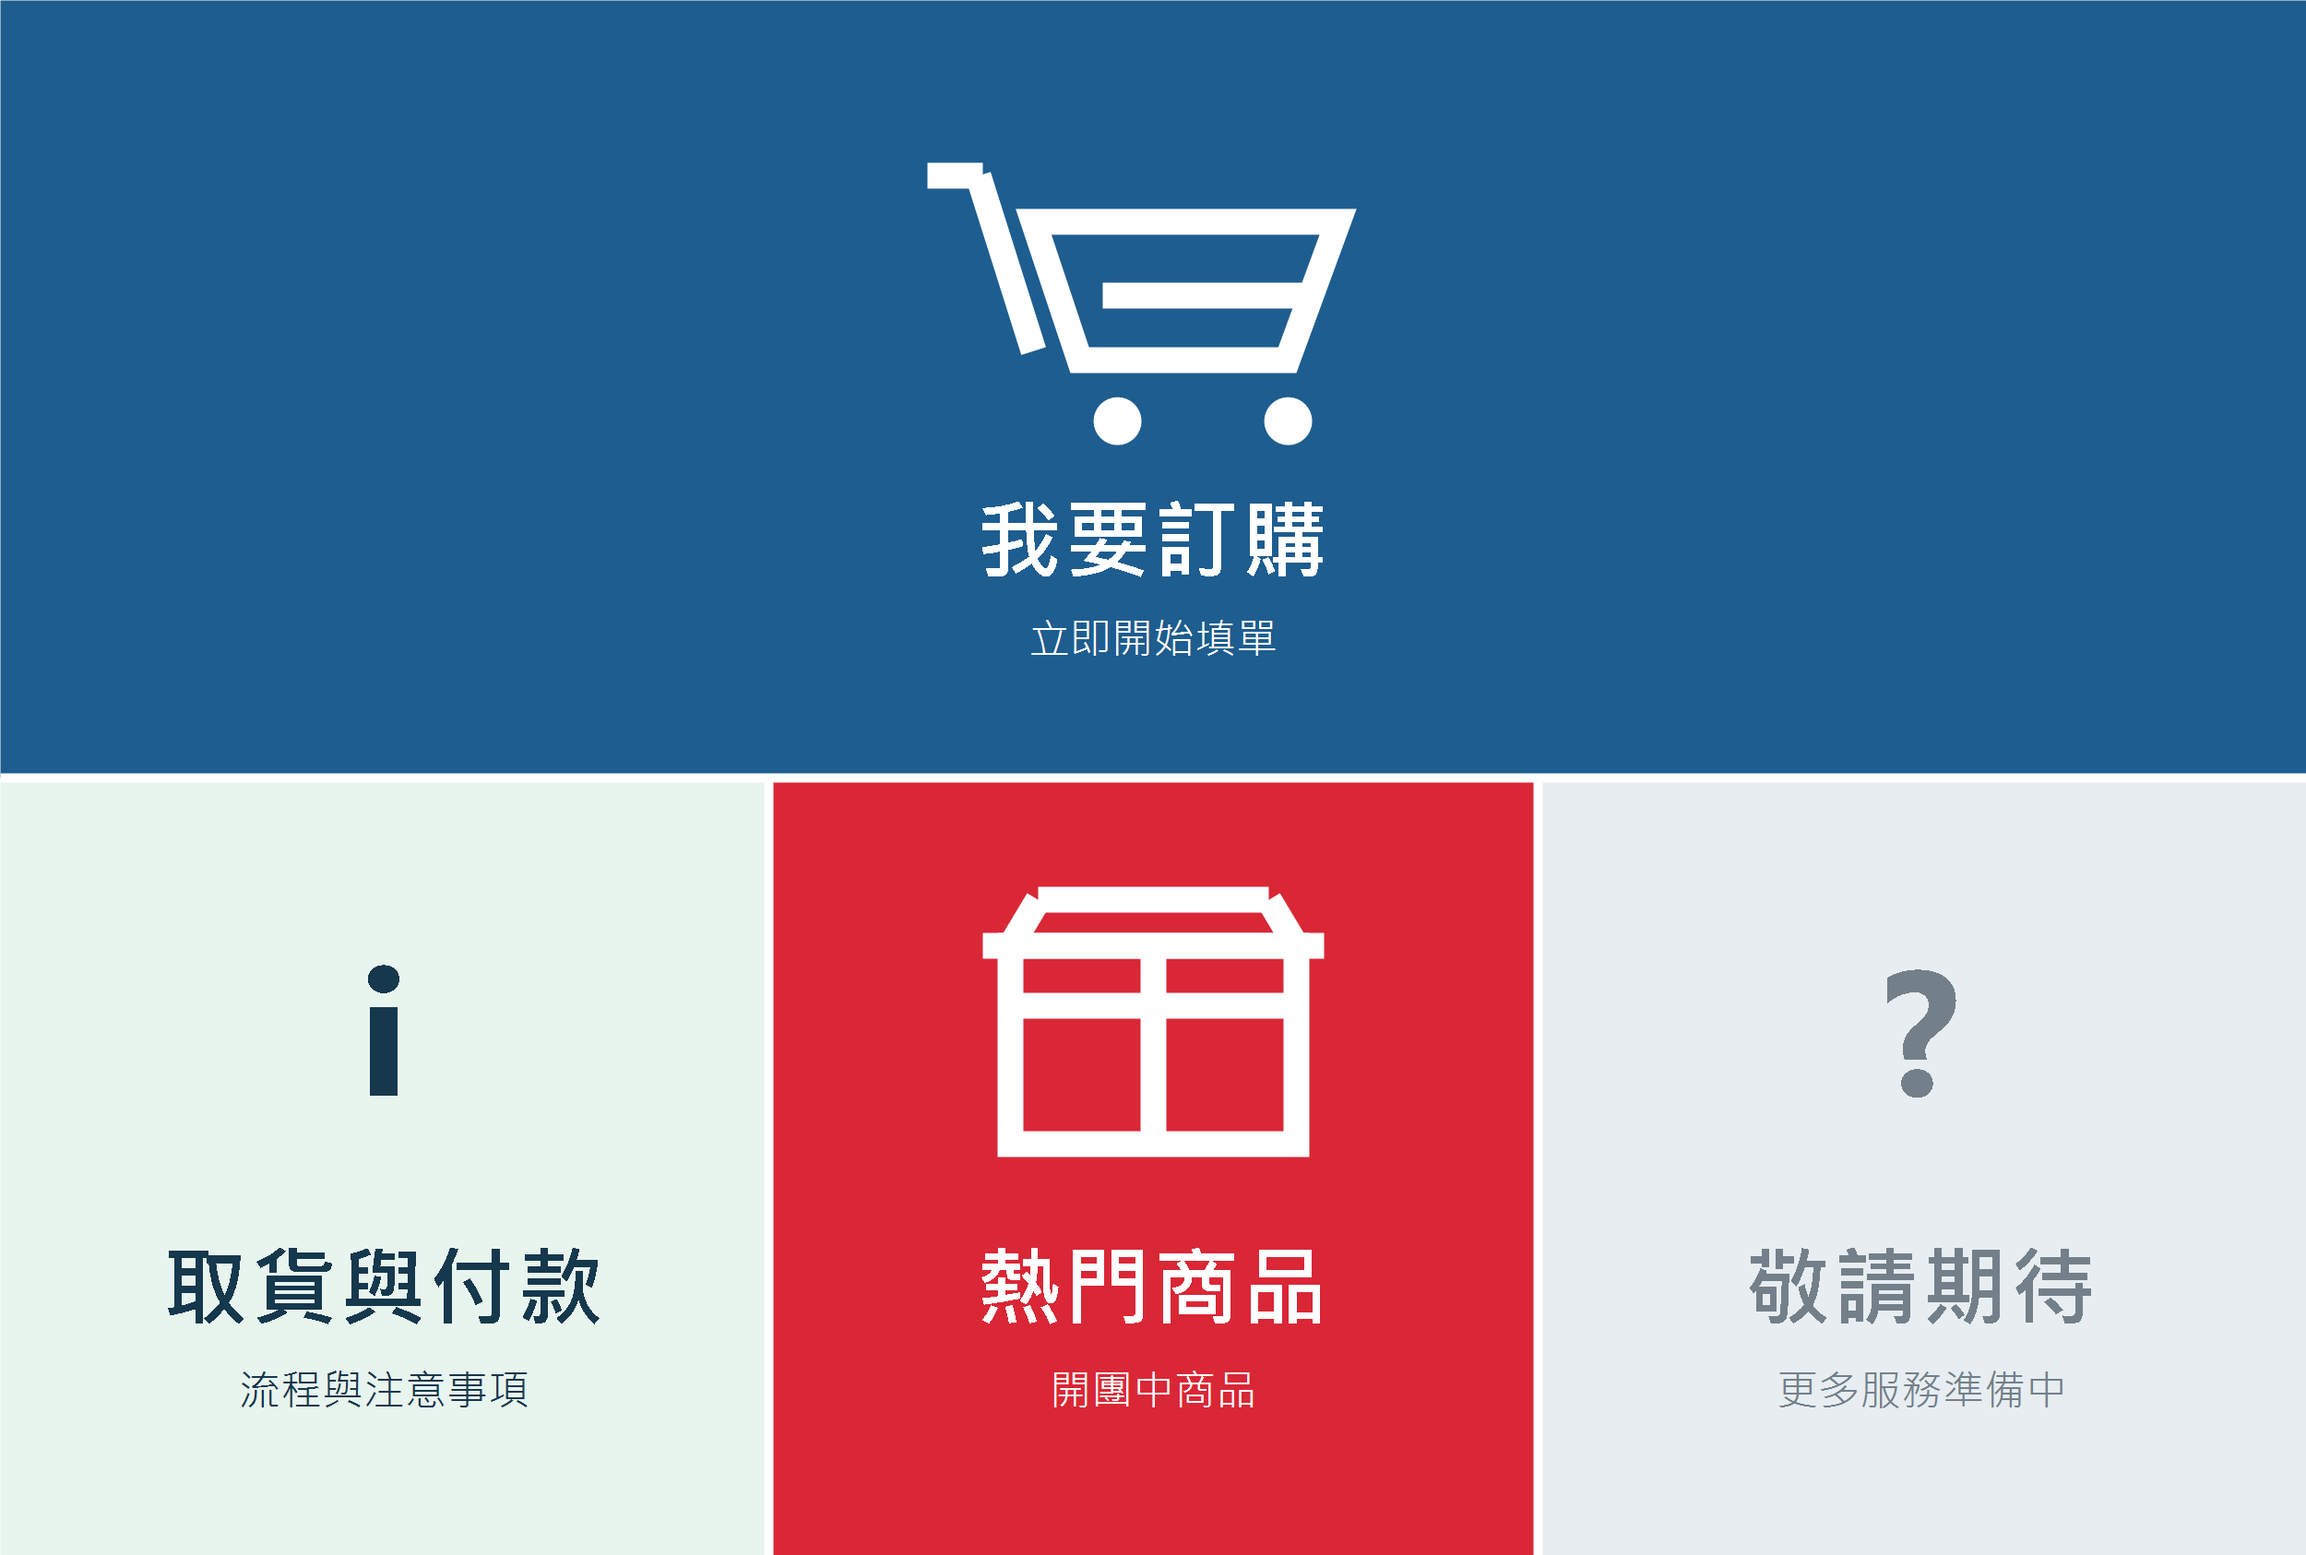
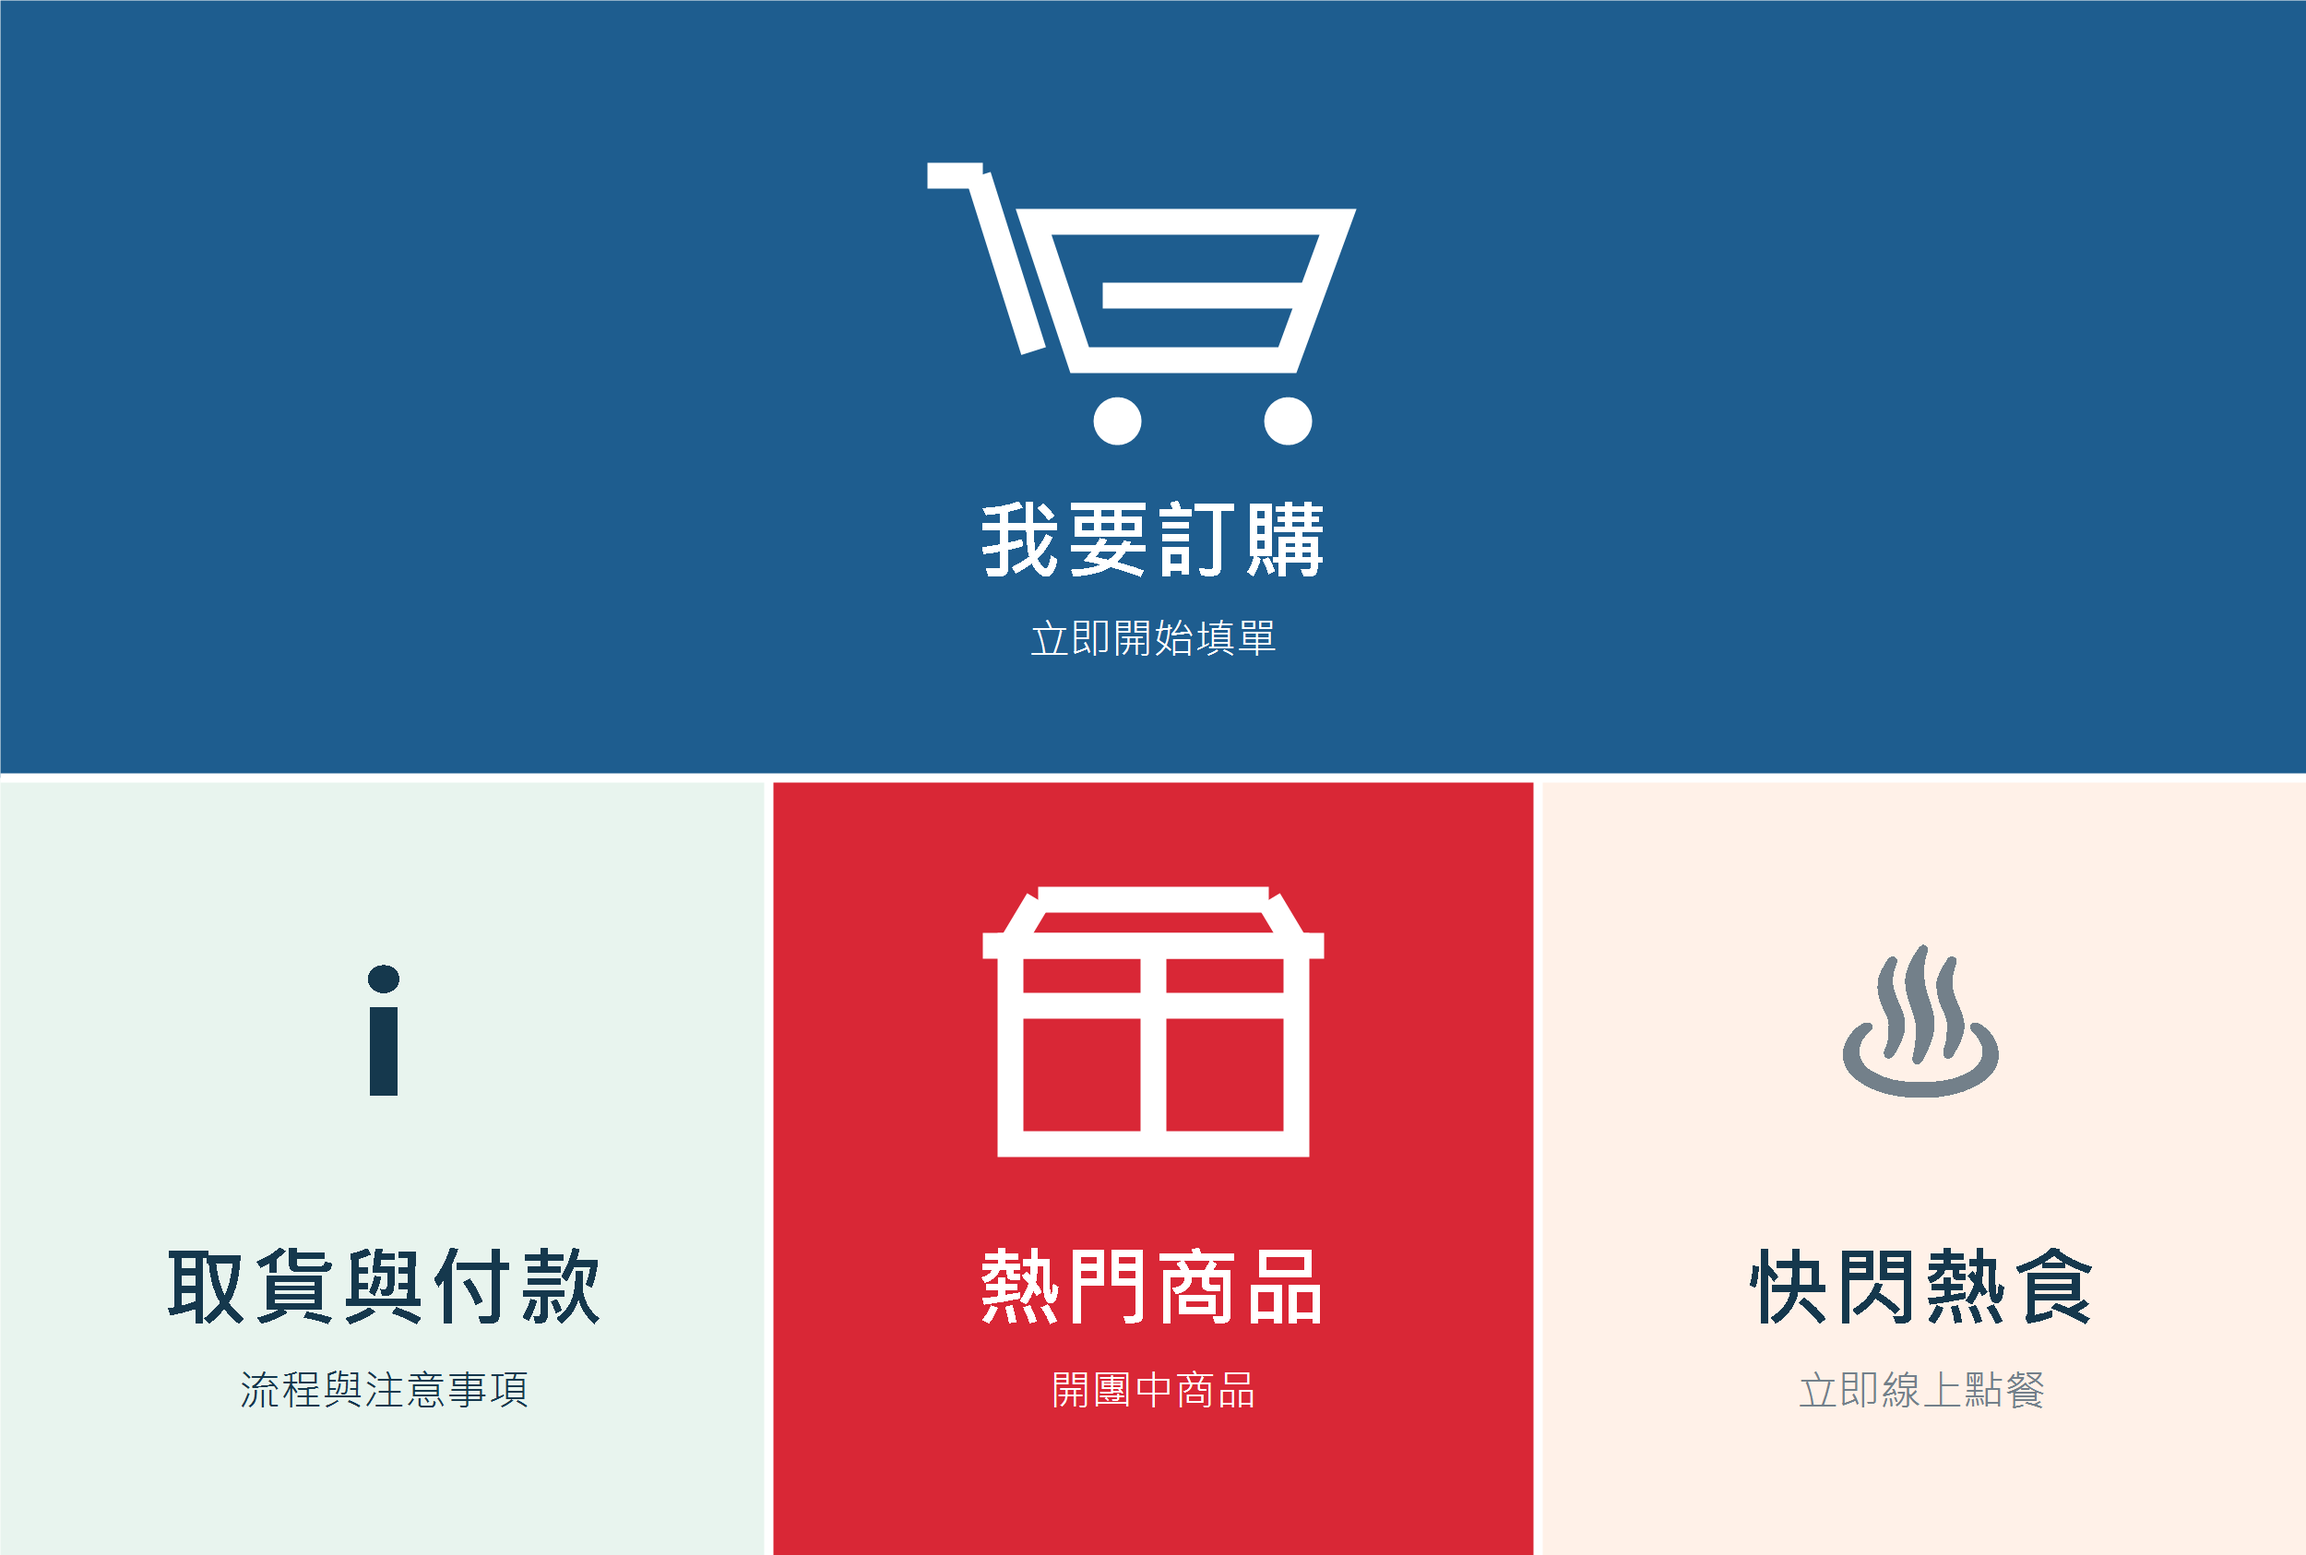
feat: add flash food LINE rich menu link

Changed region(s): [[0.7488, 0.8019, 0.9048, 0.9253], [0.78, 0.6168, 0.8736, 0.7094]]

diff --git a/assets/line-rich-menu/README.md b/assets/line-rich-menu/README.md
@@ -5,7 +5,7 @@
 ## 內容
 
 - `default-rich-menu.png`: 上傳至 LINE Official Account Manager 的圖片。
-- `default-rich-menu.json`: 使用 LINE Messaging API 建立選單時的設定。右下角「敬請期待」沒有設定觸發區，點擊不會執行動作。
+- `default-rich-menu.json`: 使用 LINE Messaging API 建立選單時的設定，四個區塊皆已設定網址動作。
 - `../../scripts/create-line-rich-menu.ps1`: 重新產生圖片的腳本。
 
 ## 四個區塊
@@ -15,13 +15,13 @@
 | 上方 | 我要訂購 | 前往訂購頁 |
 | 左下 | 取貨與付款 | 前往訂購流程說明 |
 | 中下 | 熱門商品／開團中商品 | 前往訂購頁的熱門商品區 |
-| 右下 | 敬請期待 | 預留，暫不設定動作 |
+| 右下 | 快閃熱食 | 前往快閃熱食點餐頁 |
 
 ## LINE Official Account Manager 設定
 
 1. 開啟圖文選單，建立「上方一格、下方三格」的四動作版型。
 2. 上傳 `default-rich-menu.png`。
-3. 依 `default-rich-menu.json` 的三個 `areas` 設定網址動作。
+3. 依 `default-rich-menu.json` 的四個 `areas` 設定網址動作。
 4. 儲存並設為預設圖文選單。
 
 圖文選單圖片與設定可由 LINE Official Account Manager 建立；目前專案不保存 LINE Channel Access Token，因此不會把密鑰放入 Git 或瀏覽器端。
